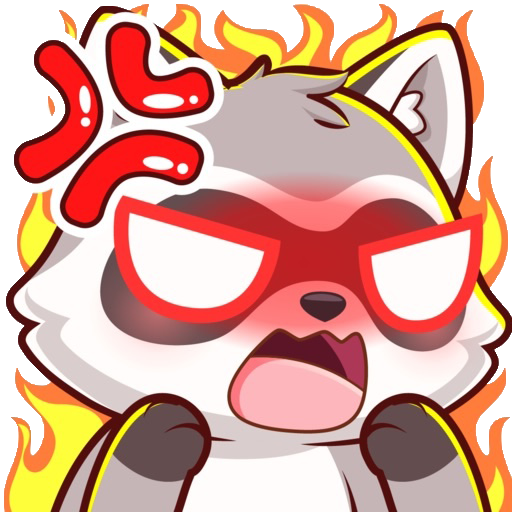
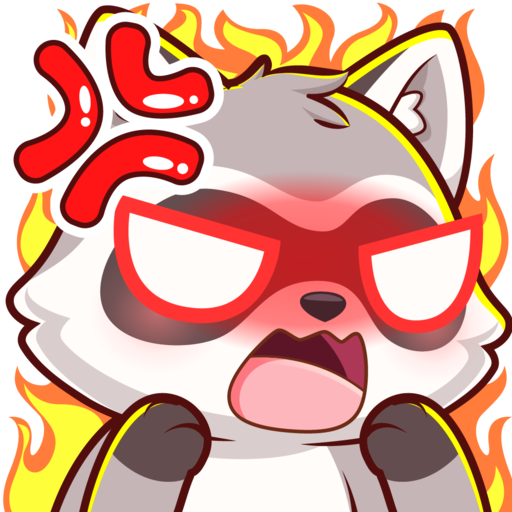
fixes

diff --git a/src/components/Shop.jsx b/src/components/Shop.jsx
@@ -8,17 +8,17 @@ import useAmbience from "../hooks/useAmbience";
 
 const PRICES = [200, 175, 70, 175, 200, 100, 130, 150, 70, 120, 160, 110];
 const IMAGES = [
-  "/raccacoonies/E9D4CA22-965B-43B3-9E3A-AA2EC31DFEE2_1_105_c.jpeg",
-  "/raccacoonies/angy.jpeg",
+  "/raccacoonies/happy.png",
+  "/raccacoonies/angy.png",
   "/raccacoonies/crying.jpeg",
-  "/raccacoonies/E6F5A42F-2434-43C6-9A81-E276C38D97BC_1_105_c.jpeg",
+  "/raccacoonies/woah.png",
   "/raccacoonies/bleh.jpeg",
   "/raccacoonies/thinking.jpeg",
   "/raccacoonies/confused.jpeg",
   "/raccacoonies/bleh_2.jpeg",
   "/raccacoonies/what.jpeg",
-  "/raccacoonies/playing_dead.jpeg",
-  "/raccacoonies/furious.jpeg",
+  "/raccacoonies/playing_dead.png",
+  "/raccacoonies/furious.png",
   "/raccacoonies/blush.jpeg",
 ];
 
